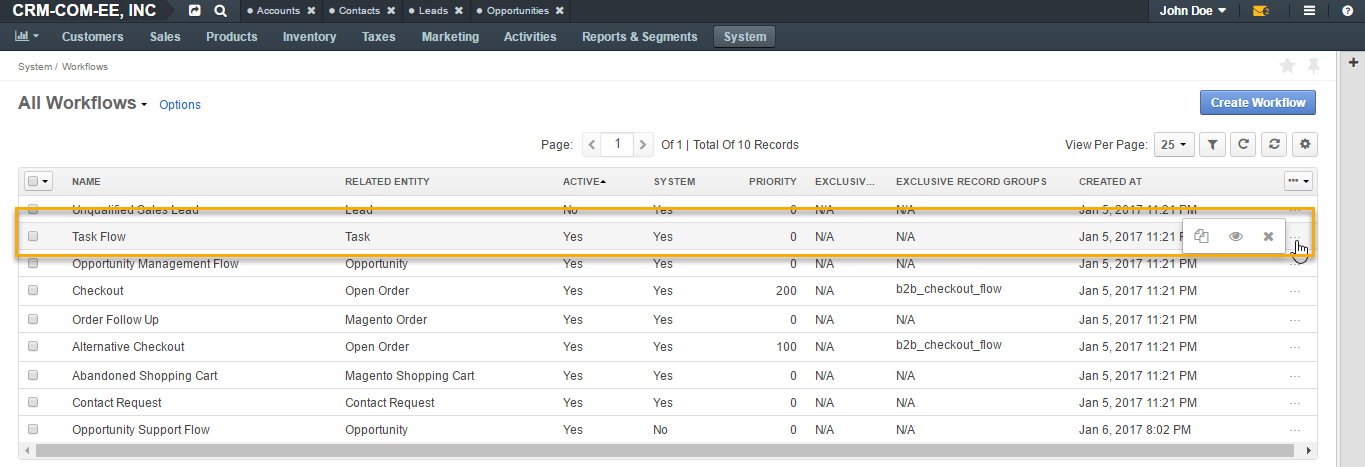
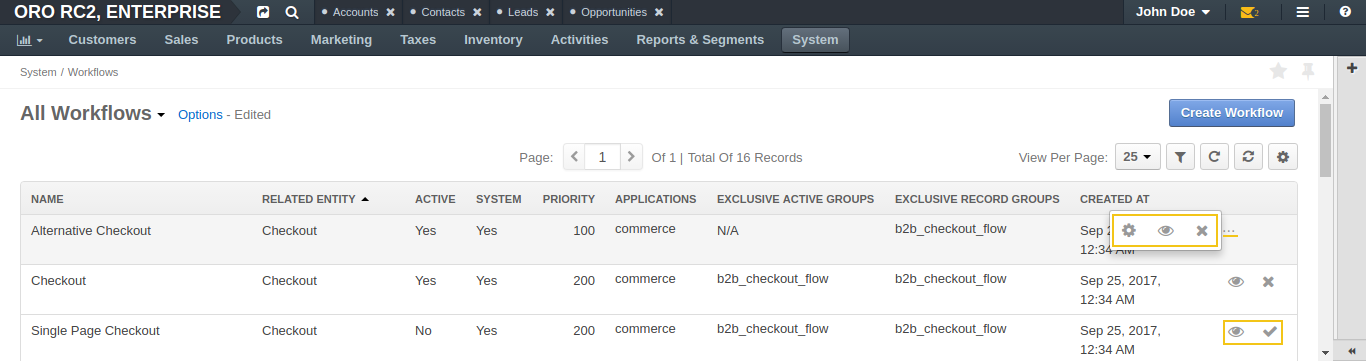
DOC-316: Describe how to clone a workflow via console  (and DOC-281) (#13599)
* - updated images to remove mentioning of the clone action for system workflows.

- workflow management - crm and commerce doc synced; added config action for system workflows grid.

* - added how to clone a workflow doc to crm and commerce

* DOC-316: Review.

* DOC-316: Review.

diff --git a/admin_guide/record_mgmt_config/workflow_management.rst b/admin_guide/record_mgmt_config/workflow_management.rst
@@ -9,7 +9,7 @@ Workflow Management
 ===================
 
 .. contents:: :local:
-    :depth: 4
+   :depth: 4
 
 .. TODO add information on exclusive active and exclusive record group
 
@@ -28,9 +28,9 @@ In OroCRM, workflows organize and direct users’ work, making them follow parti
 System vs Custom Workflows
 --------------------------
 
-In Oro applications, any workflow may be classified as either **system** or **custom**. *System* workflows are provided out of the box. Their modification is limited in order to keep core functionality operational. However, if you create a *Custom* workflow from scratch or clone the existing system workflow, you can tailor it for your needs without any restrictions.
+In Oro applications, any workflow may be classified as either **system** or **custom**. *System* workflows are provided out of the box. Their modification is limited in order to keep core functionality operational. However, if you create a *Custom* workflow from scratch, you can tailor it for your needs without any restrictions.
 
-  For more information on system and custom workflows, see :ref:`System Workflows <doc--workflows--actions--system>` and :ref:`Custom Workflows <doc--workflows--actions--custom>`.
+For more information on system and custom workflows, see :ref:`System Workflows <doc--workflows--actions--system>` and :ref:`Custom Workflows <doc--workflows--actions--custom>`.
 
 Available System Workflows
 ^^^^^^^^^^^^^^^^^^^^^^^^^^
@@ -56,7 +56,7 @@ Workflow Steps, Transitions, and Attributes
 
 .. TODO Fix transitions if necessary (may it launch on schedule or on event?) .. Yes, it can, the information about it is in the dev guide.
 
-Each process or action applied to a record is called a ``workflow transition``. On the interface, transitions are usually initiated when a user clicks the corresponding button or icon. There are two types of transitions:
+Each process or action applied to a record is called a workflow transition. On the interface, transitions are usually initiated when a user clicks the corresponding button or icon. There are two types of transitions:
 
 -	Transitions that take a user from one state to another and connect to each step in the workflow.
 -	Self-transitions that do not change steps in the workflow.
@@ -67,13 +67,13 @@ A transition can be defined as soon as there is at least one step besides **Star
 
 .. image:: ../img/workflows/1_transitions_steps.png
 
-``Attributes`` are characteristics of the record. For example, a ZIP code and a street name are attributes of an address. In the course of each transition, you can change some attributes of the processed record.
+Attributes are characteristics of the record. For example, a ZIP code and a street name are attributes of an address. In the course of each transition, you can change some attributes of the processed record.
 
-A workflow may have ``configuration parameters`` (also known as ``variables``). For example, the **Alternative Checkout** workflow includes reviewing of an order by an authorized person. This is usually required only for orders over a certain amount, so the workflow's configuration parameter enables you to set an order subtotal limit that triggers the alternative checkout.
+A workflow may have configuration parameters (also known as variables). For example, the Alternative Checkout workflow includes reviewing of an order by an authorized person. This is usually required only for orders exceeding a certain amount, so the workflow's configuration parameter enables you to set an order subtotal limit that triggers the alternative checkout.
 
 .. image:: ../img/workflows/workflow_config_prameters.png
 
-If enabled (see the section below), the **Workflow** widget displays the process steps defined in workflow configuration on the record view page. Multiple workflow widgets can be displayed for one record at the same time.
+If enabled (see the section below), the workflow widget displays the process steps defined in workflow configuration on the record view page. Multiple workflow widgets can be displayed for one record at the same time.
 
 .. image:: ../img/workflows/2_wf_steps_new.png
 
@@ -85,7 +85,7 @@ Create a Workflow
 To create a workflow for an entity:
 
 1. In the main menu, navigate to **System > Workflows**.
-2. Click **Create Workflow** in the upper-right corner of the page.
+2. Click **Create Workflow** on the top right of the page.
 
    .. image:: ../img/workflows/3_create_wf_button.png
 
@@ -114,7 +114,7 @@ The **General** section of the create a workflow page contains the following inf
   "**Related Entity**", "A related entity is the entity for which the workflow is created. When the workflow is active, it can be launched and executed on the records of its related entity."
   "**Exclusive Active Groups**","Exclusive Active Groups is a list of group names for which the current workflow should be active exclusively. Determining Exclusive Record Groups allows to set up mutually exclusive workflows in order to configure how they each correlate in the system. This makes it possible for only one workflow to be active, or for an entity record to use only one workflow from the group at a time."
   "**Exclusive Record Groups**","Exclusive Record Groups specify how workflows apply to certain sets of records in order to limit their applicability. This lets users create specific workflows for specific segments (subsets) of records. For example, no concurrent transitions are possible among workflows in same exclusive record group."
-  "**Default Step**", "Specifying the default steps launches the workflow in a particular step by default. For instance, when you activate Opportunity Management Flow, a newly created opportunity will appear as **open**, if **Open** was specified as the default step.
+  "**Default Step**", "Specifying the default steps launches the workflow in a particular step by default. For instance, when you activate Opportunity Management Flow, a newly created opportunity will appear as open, if **open** was specified as the default step.
   If no step is selected, all newly created records will have no workflow associated with them, and it must be launched with one of the starting transitions."
   "**Display Steps Ordered**", "Display Steps Ordered box is not checked by default.
 
@@ -154,12 +154,12 @@ The **Designer** section consists of a table and an interactive chart representa
 - **Add a transition** (clicking the **+ Add Transition** button at the top of the chart opens the **Add Transition** dialog).
 - **Add a step** (clicking the **+ Add Step** button at the top of the chart opens the **Add Step** dialog).
 - **Autosort** (clicking the **Auto Sort** button at the top of the chart automatically shapes your chart).
-- **Rearrange the chart** for clearer workflow view (drag-and-drop transitions and steps in the chart as required, or click the |IcExpand| **Expand** button in the upper-right corner of the chart).
+- **Rearrange the chart** for clearer workflow view (drag-and-drop transitions and steps in the chart as required, or click the |IcExpand| **Expand** button in the top right corner of the chart).
 
 .. image:: ../img/workflows/auto_sort.gif
 
-- **Zoom in/out** (click the |IcSearchPlus| **Zoom In** / |IcSearchMinus| **Zoom Out** button in the upper-right corner of the chart to zoom the chart in/out, or select zoom percent from the list).
-- **Show transition labels** (select this check box in the upper-left corner of the chart to display transition labels in the chart).
+- **Zoom in/out** (click the |IcSearchPlus| **Zoom In** / |IcSearchMinus| **Zoom Out** button in the top right corner of the chart to zoom the chart in/out, or select zoom percent from the list).
+- **Show transition labels** (select this check box in the top left corner of the chart to display transition labels in the chart).
 - **Drag transitions from one step to another** (point to one of four corners of the step box, and when the cursor changes shape to the hand, click the corner and drag an arrow to another step).
 
 .. image:: ../img/workflows/drag_transition.gif
@@ -174,7 +174,7 @@ The **Designer** section consists of a table and an interactive chart representa
 Example Introduction
 ~~~~~~~~~~~~~~~~~~~~
 
-As an example, we are going to create the **Opportunity Support Flow** workflow to show how a workflow is configured and visualized.
+As an example, we are going to create the Opportunity Support Flow workflow to show how a workflow is configured and visualized.
 
 Add a Step
 ~~~~~~~~~~
@@ -183,7 +183,7 @@ Add a Step
 
 To add a step to a workflow:
 
-1. Click **Add Step** in the upper-right corner of the chart.
+1. Click **Add Step** in the top right corner of the chart.
 
    .. image:: ../img/workflows/7_add_step.png
 
@@ -206,7 +206,7 @@ Next, we are going to apply a transition for these steps.
 Example
 """""""
 
-For the sample **Opportunity Support Flow**, we will start off by creating two steps: **No Complaints** and **Complaint Received**.
+For the sample Opportunity Support Flow, we will start off by creating two steps: **No Complaints** and **Complaint Received**.
 
 .. image:: ../img/workflows/8_add_step_form.png
 
@@ -219,7 +219,7 @@ Add a Transition
 
 To add a transition to a workflow:
 
-1. Click **Add Transition** in the upper-right corner of the chart.
+1. Click **Add Transition** on the top right of the chart.
 
    .. image:: ../img/workflows/10_add_transition.png
 
@@ -271,7 +271,7 @@ To add a transition to a workflow:
 Example
 """""""
 
-The following is an example of an attribute added for the **Register a Complaint** transition in the sample **Opportunity Support Flow**. The entity selected for the attribute is Additional Comments. Its label has been changed to **Specify the Complaint**.
+The following is an example of an attribute added for the **Register a Complaint** transition in the sample Opportunity Support Flow. The entity selected for the attribute is Additional Comments. Its label has been changed to **Specify the Complaint**.
 
 .. image:: ../img/workflows/12_specify_complaint.png
 
@@ -279,7 +279,7 @@ The following is an example of an attribute added for the **Register a Complaint
 
 In the same manner, specify steps, transitions and attributes required for your custom workflow.
 
-The sample **Opportunity Support Flow** has been configured the following way:
+The sample Opportunity Support Flow has been configured the following way:
 
 .. image:: ../img/workflows/14_sample_flow_saved.png
 
@@ -292,7 +292,7 @@ To set a workflow configuration parameters:
 
 1. In the main menu, navigate **System > Workflows**.
 2. On the workflow list, click the required workflow.
-3. If the workflow has configuration parameters, you can see the **Configuration** button in the upper-right corner of the workflow view page. Click this button.
+3. If the workflow has configuration parameters, you can see the **Configuration** button on the top right of the workflow view page. Click this button.
 
    .. image:: ../img/workflows/workflow_set_config_param.png
 
@@ -312,13 +312,13 @@ Workflow Visualization
 
 Once the workflow has been configured and saved, you can see how it is visualized for the records:
 
-- Transition buttons will be displayed in the upper-right corner of the entity record page.
-- All the steps will be located at the top on the entity record page within the workflow widget.
+- Transition buttons will be displayed on the top right of the entity record page.
+- All the steps will be located on the top right of the entity record page within the workflow widget.
 
 Example
 ^^^^^^^
 
-The sample **Opportunity Support Flow** has been saved and activated.
+The sample Opportunity Support Flow has been saved and activated.
 
 As you can see from the screenshots below, the opportunity is currently in the **No Complaints** step. Clicking **Register a Complaint** will prompt an attribute we have configured for this transition:
 
@@ -385,17 +385,18 @@ Since system workflows are pre-implemented in the system, their management from 
 
 - **View**: |IcView| (Go to the view page of the workflow).
 - **Activate/Deactivate**: |IcCheck| / |IcTimes| (activate/deactivate the workflow).
+- **Configure**: |IcSettings|
 
 .. image:: ../img/workflows/27_manage_wf_2.png
 
-.. hint:: In case you need to alter a system workflow, clone it under the different name and make the required changes (it will be saved as a custom workflow). For more information on how to clone a workflow, see `Workflow Imports <https://github.com/oroinc/platform/blob/master/src/Oro/Bundle/WorkflowBundle/Resources/doc/reference/workflow/configuration-reference.md#workflow-imports>`__ in the oroinc/platform repository on GitHub.
+.. hint:: In case you need to alter a system workflow, clone it via the command line console under the different name and make the required changes. For more information on how to clone a workflow, see :ref:`How to Clone a Workflow <workflows--actions--clone>`.
 
 .. _doc--workflows--actions--custom:
 
 Custom Workflows
 ^^^^^^^^^^^^^^^^
 
-Cloned system workflows and workflows created in the UI from scratch are custom workflows.
+Workflows created on the UI from scratch are custom workflows.
 You can perform the following actions for them:
 
 - **Clone**: |IcClone| (copy the workflow to be able to customize it).
@@ -420,9 +421,10 @@ In Oro applications, there are two ways to create a new workflow:
 
 Some workflow components, like an email notification, may be created only via the command line.
 
-.. warning:: In the user interface, you cannot edit or clone the workflows that contain transition actions and conditions.
+.. warning:: In the user interface, you cannot edit or clone workflows that contain transition actions and conditions. If you need to clone a workflow anyway, see :ref:`How to clone a wokflow via the command line console <workflows--actions--clone>`.
 
-For how to create, edit and clone workflows from the server side, see `Workflow Documentation <https://github.com/oroinc/platform/blob/master/src/Oro/Bundle/WorkflowBundle/Resources/doc/reference/workflow/index.md>`__ in the oroinc/platform repository on GitHub.
+For how to create and manage workflows from the server side, see `Workflow Documentation <https://github.com/oroinc/platform/blob/master/src/Oro/Bundle/WorkflowBundle/Resources/doc/reference/workflow/index.md>`__ in the oroinc/platform repository on GitHub.
+
 
 .. _doc--system--workflow-management--activate:
 
@@ -473,8 +475,8 @@ To define a translation:
 
    .. image:: ../img/workflows/translations_relevantlist.png
 
-2. On the translation list, choose the language into which you want to translate a label, and point to the corresponding cell in the **Translated Value** column.
-3. Using the :ref:`inline editor <doc-grids-actions-records-edit-inline>`, specify a new translation for a label.
+2. From the translation list, choose the language into which you want to translate the label, and point to the corresponding cell in the **Translated Value** column.
+3. Using the :ref:`inline editor <doc-grids-actions-records-edit-inline>`, specify the new translation for the label.
 
    .. image:: ../img/workflows/translations_edit1.png
 

diff --git a/cookbook/how_to_clone_workflow.rst b/cookbook/how_to_clone_workflow.rst
@@ -1,0 +1,54 @@
+.. _workflows--actions--clone:
+
+How to Clone a System Workflow
+==============================
+
+To clone a workflow, create a dump of its configuration and translation files, adjust them, and load into the system:
+
+1. Dump the workflow configuration.
+
+   For example, you want to dump a configuration of the Alternative Checkout workflow to your CustomBundle:
+
+   .. code-block:: bash
+      :linenos:
+
+       php app/console oro:debug:workflow:definitions b2b_flow_alternative_checkout > /home/oro/commerce-application/src/<Acme>/Bundle/<CustomBundle>/Resources/config/oro/workflows.yml
+
+   where /<Acme>/Bundle/<CustomBundle> is a path to the bundle you want to create a workflow for.
+
+   The copy of the initial file will be created in the destination directory.
+
+2. Dump the workflow translations. Translation contain labels for workflow steps, transitions, etc., thus it is necessary to clone them too.
+
+   .. code-block:: bash
+      :linenos:
+
+      php app/console oro:workflow:translations:dump b2b_flow_alternative_checkout --locale=en > /home/oro/commerce-application/src/<Acme>/Bundle/<CustomBundle>/Resources/translations/workflows.en.yml
+
+   The copy of the initial file will be created in the destination directory.
+
+3. Open copied files with workflow configuration and translations. Change the workflow name in both files. If required, adjust other settings.
+
+   .. important:: You need to change the workflow name to avoid conflicts with the existing workflow: workflows must have unique names in the system.
+
+   .. image:: /cookbook/img/how_to_clone_workflow/workflow_config_change_name.png
+
+   .. image:: /cookbook/img/how_to_clone_workflow/workflow_transl_change_name.png
+
+4. Remove section ``init_routes`` from the cloned workflow configuration:
+
+   .. image:: /cookbook/img/how_to_clone_workflow/workflow_config_remove_init.png
+
+5. Load your cloned and adjusted workflow translations:
+
+   .. code-block:: bash
+      :linenos:
+
+      php app/console oro:translation:load
+
+6. Load your cloned and adjusted workflow configuration:
+
+   .. code-block:: bash
+      :linenos:
+
+      php app/console oro:workflow:definitions:load

diff --git a/cookbook/index.rst b/cookbook/index.rst
@@ -34,6 +34,7 @@ This book contains list of most regularly used solutions in OroPlatform.
 * :doc:`/cookbook/how_to_upgrade_to_new_version`
 * :doc:`/cookbook/how_to_apply_patch`
 * :doc:`/cookbook/how_to_co-install_applications`
+* :doc:`/cookbook/how_to_clone_workflow`
 * :doc:`/cookbook/known_issues_outlook_addin`
 * :doc:`/cookbook/faq`
 
@@ -58,22 +59,7 @@ This book contains list of most regularly used solutions in OroPlatform.
     how_to_upgrade_to_new_version
     how_to_apply_patch
     how_to_co-install_applications
+    how_to_clone_workflow
     known_issues_outlook_addin
     faq
-
-TODO List
----------
-
-* How to override part of the bundle (controller, template etc.)
-* How to set up ACL
-* How to create simple datagrid
-* How to create complex datagrid
-* How to add entity to search index
-* How to work with localization
-* How to work with Data Audit
-* How to work with custom entities
-* How to work with extended entities
-* How to create custom workflow
-* How to work with JavaScript widgets
-* How to work with notifications and web sockets
 

diff --git a/book/data/workflow.rst b/book/data/workflow.rst
@@ -25,6 +25,8 @@ Configure a Workflow
 
 To configure a custom workflow, create the ``workflows.yml`` file with the configuration and save it into the ``/Resources/config/oro`` directory of your bundle.
 
+.. hint:: You can simplify workflow creation by cloning the existing workflow. See :ref:`How to clone a workflow <workflows--actions--clone>`.
+
 For each entity, you can configure as many workflows as required.
 
 .. note:: Pay attention to the business logic. When you create workflows that can be mutually exclusive, make sure that there is no possibility that they may be activated simultaneously.
@@ -49,7 +51,6 @@ You need to create such file for each language that you will use.
    
    `app/console oro:workflow:translations:dump my_workflow --locale=en > <YourBundle>/Resources/translations/workflows.en.yml`
   
-
 
 For more information, see `Workflow Translation Wizard <https://github.com/orocrm/platform/blob/master/src/Oro/Bundle/WorkflowBundle/Resources/doc/reference/workflow/translations-wizard.md>`__ on GitHub.
 

diff --git a/user_guide_sales_tools/b2b_sales/opportunities/flows.rst b/user_guide_sales_tools/b2b_sales/opportunities/flows.rst
@@ -22,7 +22,7 @@ To ensure data consistency and reasoned opportunity management by a sales manage
 This can be done from the **Workflows** view page by selecting Opportunity Management Flow and clicking :guilabel:`Activate` in the top right corner.
 
 
-.. image:: ../../../img/opportunities_2.0/activate_opp_flow.jpg
+.. image:: ../../../img/opportunities_2.0/activate_opp_flow.png
 
 Active Opportunity Management Flow limits what a sales manager can do with opportunities, thus eliminating situations when, for instance, an opportunity is not yet closed but its close reason is specified, or an opportunity is closed but its close reason is unspecified.
 
